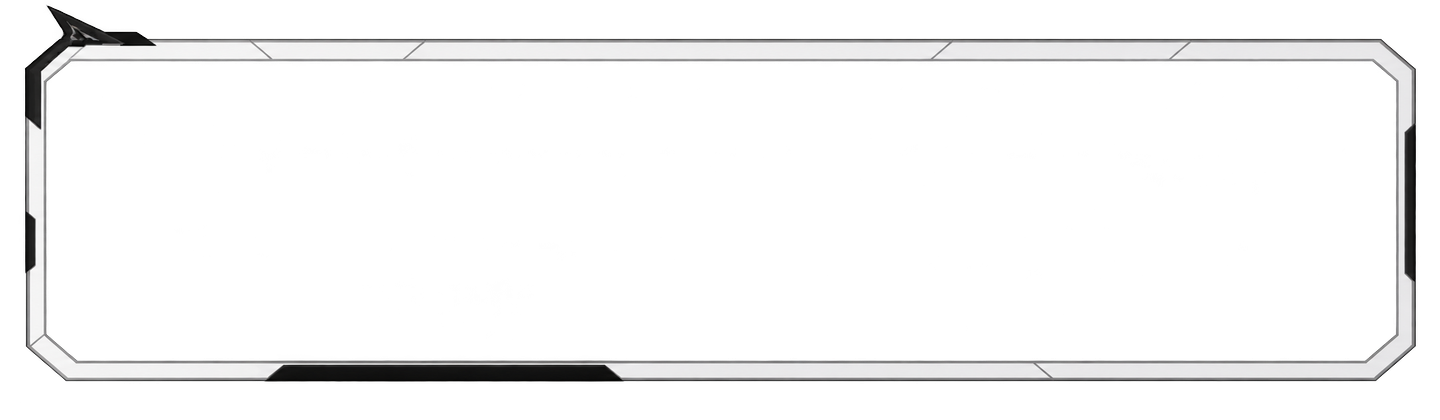
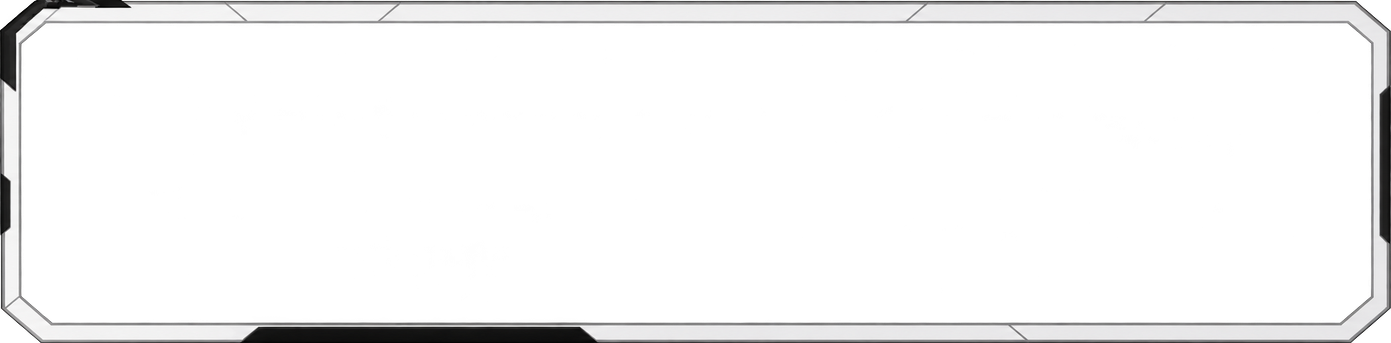
composer 恢复 720 宽；裁掉外框素材外圈留白、卡面改微渐变；按真实桌面截图校准

Changed region(s): [[0.0, 0.0, 1.0, 1.0]]

diff --git a/client.js b/client.js
@@ -180,15 +180,17 @@ window.__ModuleLoader__.load({
           '[data-composer-card]{' +
             'position:relative;isolation:isolate;' +
             'border:0!important;border-radius:0!important;box-sizing:border-box;' +
-            'background:rgba(255,255,255,0.97)!important;' +
+            'background-image:url("' + frameBg + '"),linear-gradient(180deg,#ffffff,#f3f5f7)!important;' +
+            'background-size:100% 100%,auto!important;background-position:center,0 0!important;' +
+            'background-repeat:no-repeat!important;background-origin:border-box!important;' +
+            'background-clip:border-box!important;' +
             'box-shadow:none!important;clip-path:none!important;filter:none!important;' +
-            'max-width:620px!important;' +
-            'padding:20px 24px!important;' +
-            'min-height:160px!important;' +
+            'max-width:720px!important;' +
+            'padding:24px 28px!important;' +
+            'min-height:178px!important;' +
             'justify-content:space-between' +
             '}',
-          '[data-composer-card]::before{content:"";position:absolute;inset:0;z-index:-1;' +
-            'background:url("' + frameBg + '") center/100% 100% no-repeat;pointer-events:none}',
+
           '[data-composer-card] [class*="_add"]{width:32px;height:32px;border:1px solid rgba(28,28,31,0.25)!important;' +
             'border-radius:2px!important;background:transparent!important;color:#1c1c1f!important}',
           '[data-composer-card] [class*="_primary"]{border-radius:2px!important;' +
